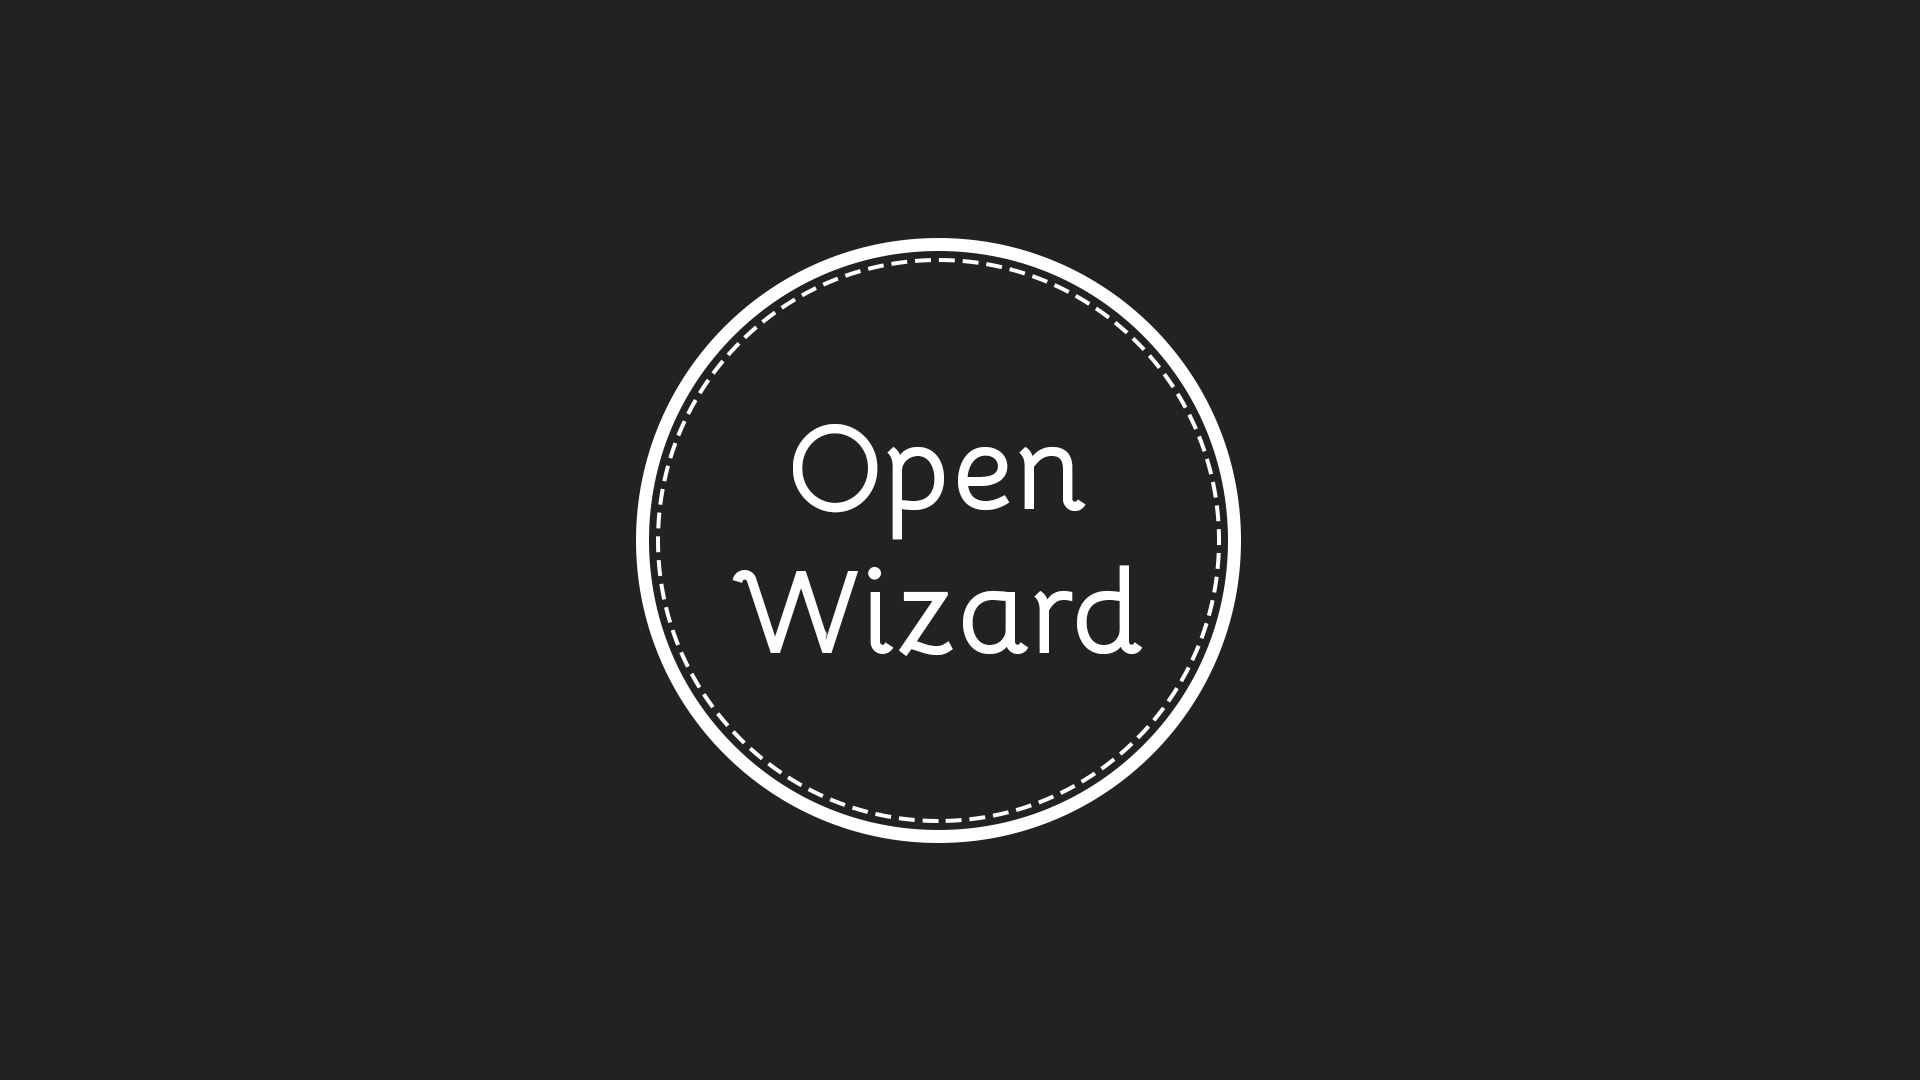
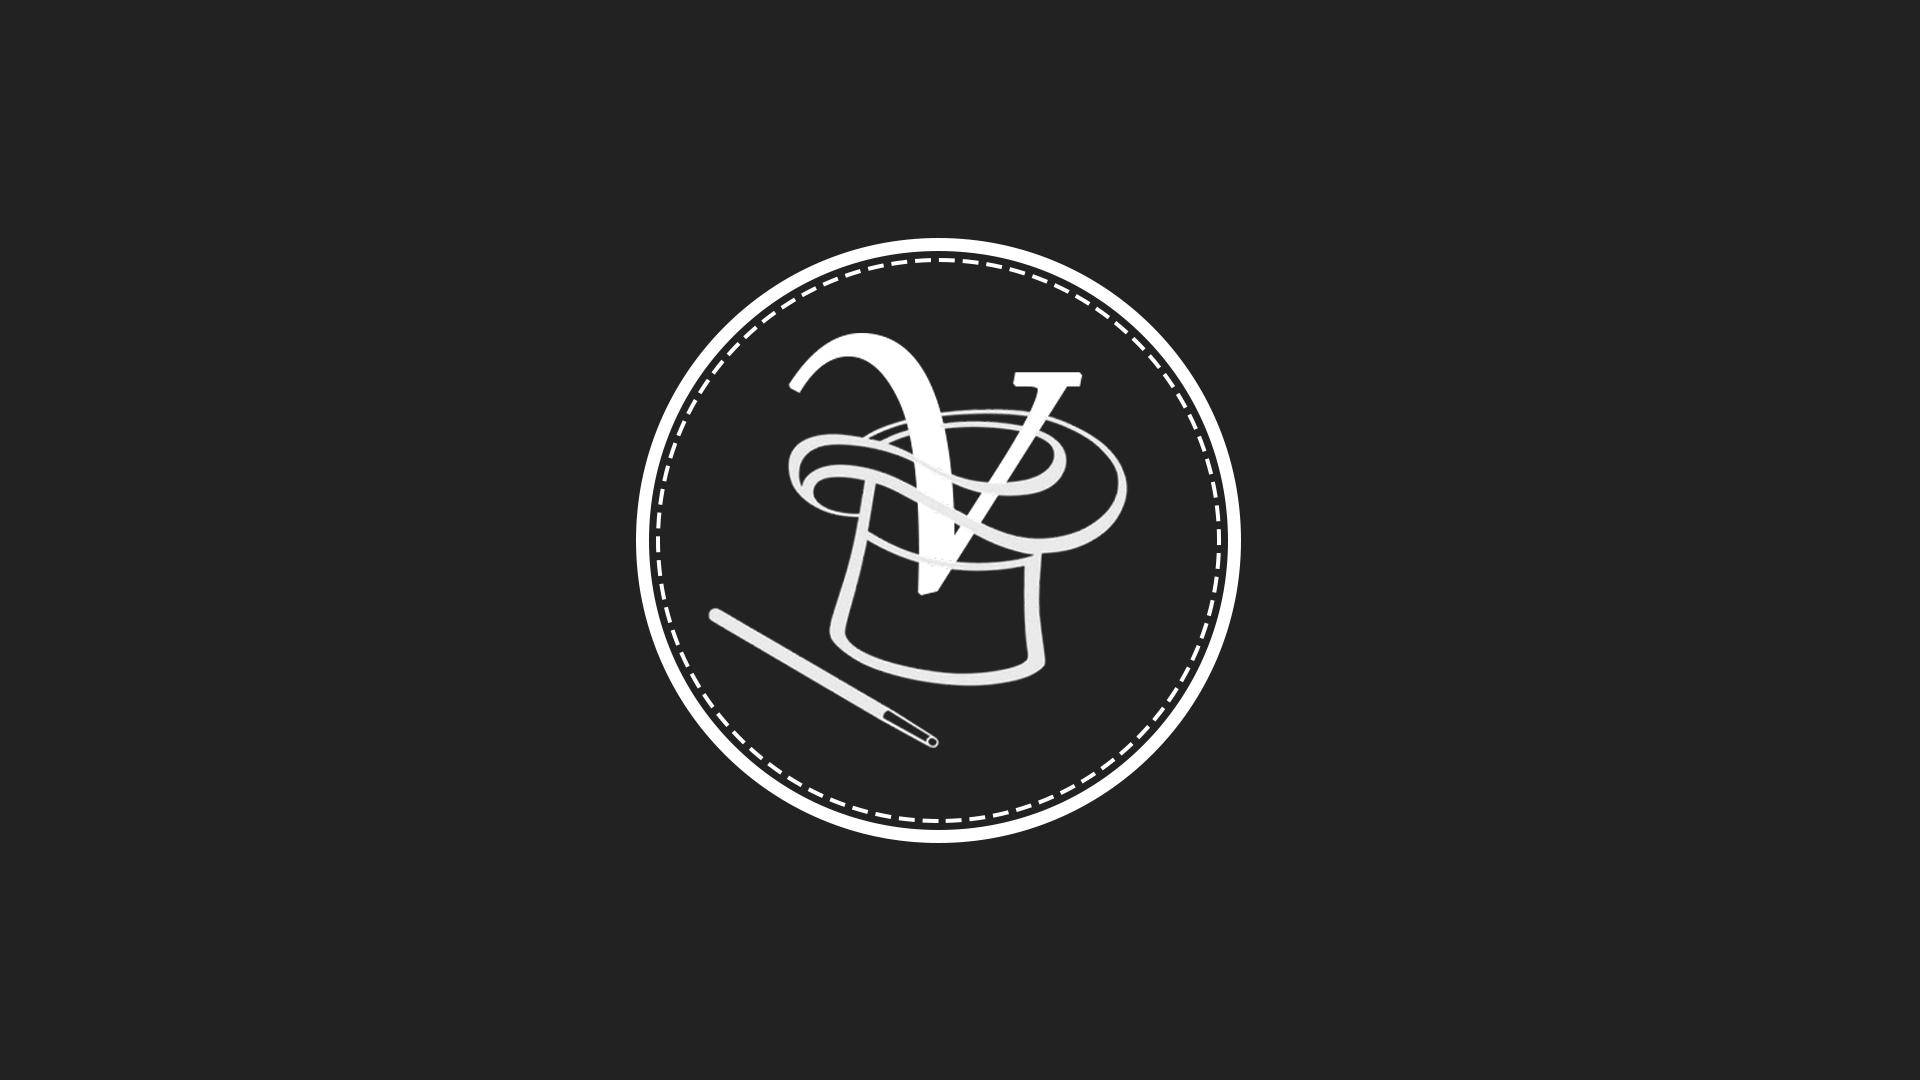
update plugin vagval

Changed region(s): [[0.375, 0.3056, 0.5938, 0.6722], [0.4688, 0.6722, 0.5, 0.7028]]

diff --git a/matrix/plugin.program.vagval/README.md b/matrix/plugin.program.vagval/README.md
@@ -2,6 +2,7 @@
 
 
 ## What it does
+-Added a fanart and an icon pack!
 Made it to download the build.
 Delete the /addon and /userdata folder.
 Replace everything with new folders and files.
@@ -9,5 +10,4 @@ KILLS Kodi for remaining the skin settings (that was the tricky part)
 
 ## THINGS TO DO 
 Possible make another build for 20.x
-Add a fanart and an icon pack (bliah)
 MAYBE back-ported to Python2 for Kodi <19 compatibility
